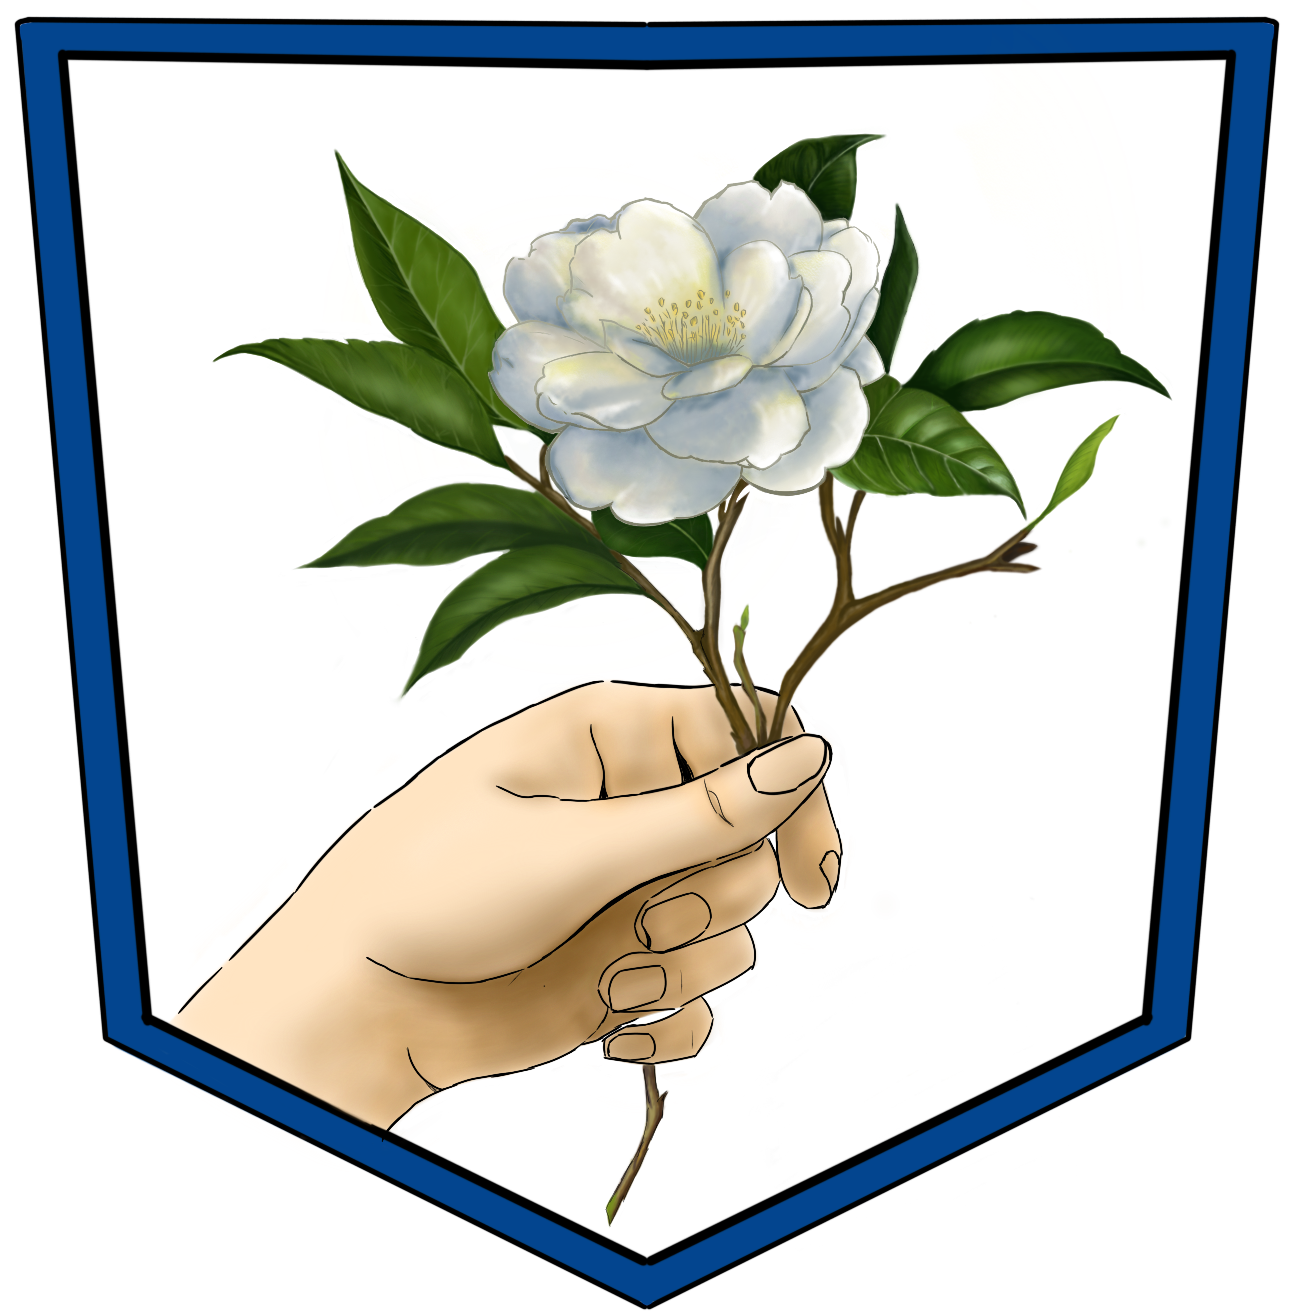
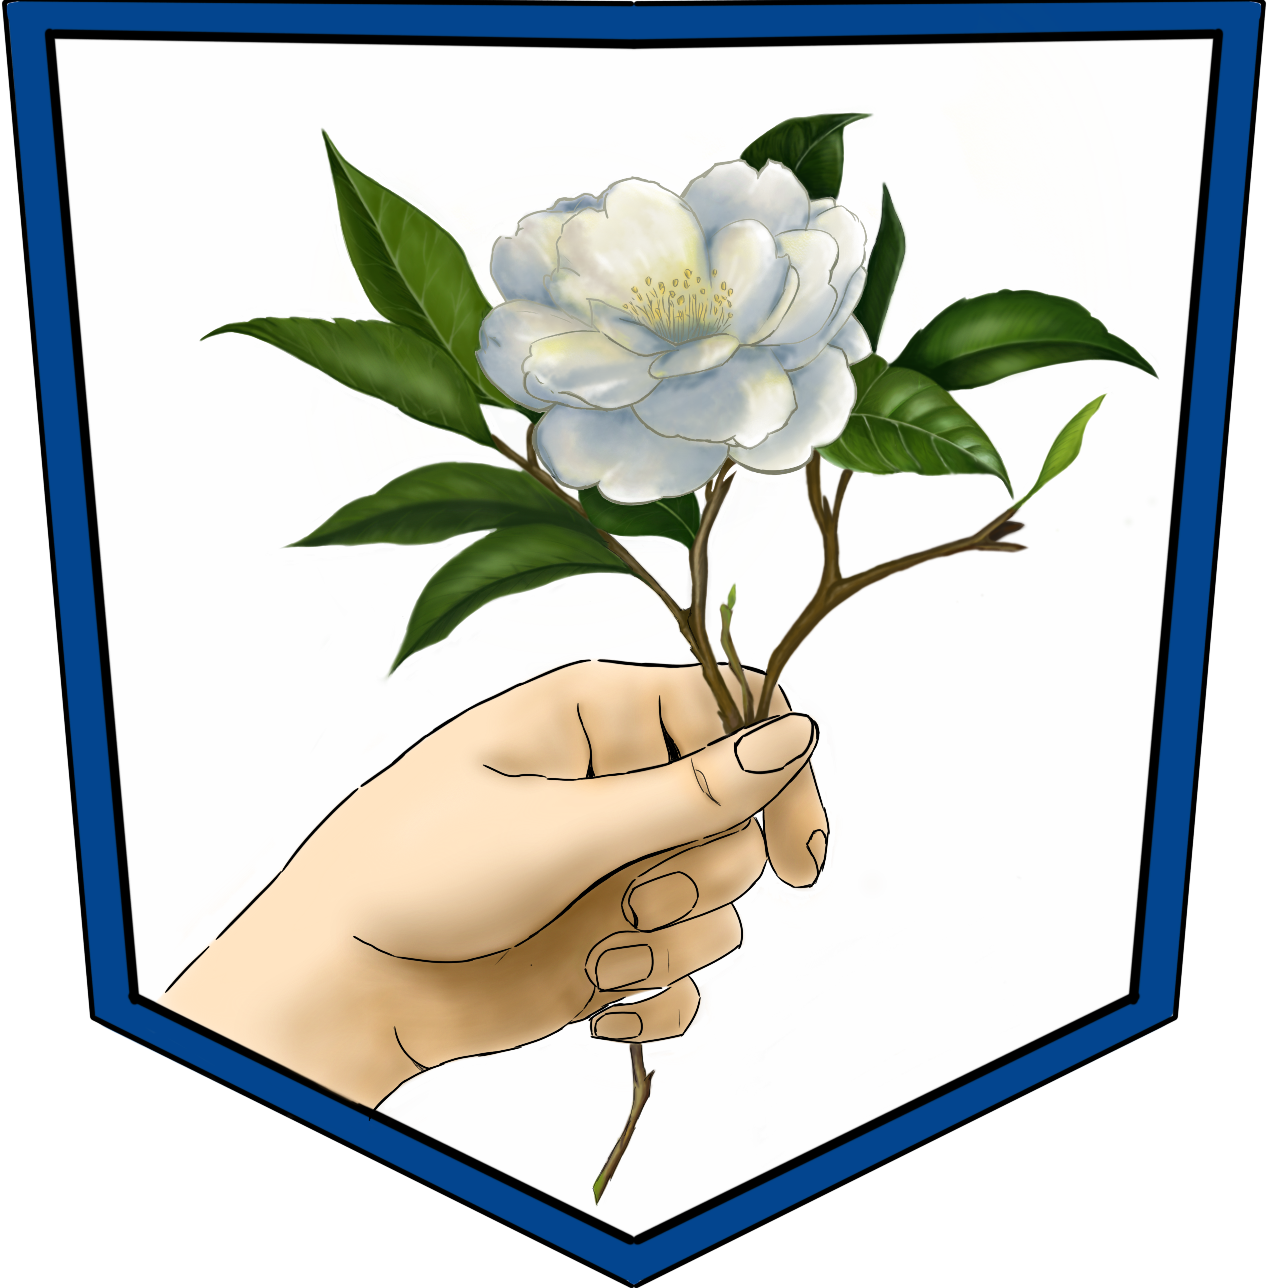
Change home page layout.

diff --git a/src/Flask/static/css/index.css b/src/Flask/static/css/index.css
@@ -17,7 +17,7 @@ html, body {
     background: #009AC9;
     justify-content: center;
     align-items: center;
-    font-size: 0.8rem;
+    font-size: 1rem;
     color: white;
     display: flex;
 }
@@ -51,7 +51,7 @@ html, body {
     justify-content: center;
     justify-items: center;
     display: flex;
-    margin-left: 20%;
+    margin-left: 10%;
 }
 
 .info-panels {
@@ -67,11 +67,11 @@ html, body {
     position: relative;
 }
 .search-input {
-    width: 60%;
+    width: 50%;
     border: 1.5px solid #00467F;
     border-radius: 30px;
     background: white;
-    margin-left: 20%;
+    margin-left: 25%;
     font-size: 1rem;
     transition: var(--all-transition);
     height: 30px;
@@ -185,7 +185,7 @@ html, body {
     align-items: center;
     text-align: center;
     position: relative;
-    right: 5%;
+    right: 13%;
 }
 .sign-icon {
     margin-top: 10px;
@@ -322,17 +322,26 @@ html, body {
 
 .logo {
     position: absolute;
-    width: 100px;
-    height: 100px;
+    width: 110px;
+    height: 110px;
     background-color: #00467F;
-    bottom: 15.5px;
-    left: 5%;
-    clip-path: polygon(25% 0%, 100% 0, 100% 75%, 75% 100%, 0 100%, 0 25%);
+    bottom: 10px;
+    left: 10%;
+    clip-path: polygon(0% 0%, 75% 0, 100% 25%, 100% 100%, 25% 100%, 0 75%);
     z-index: 3;
+    align-items: center;
+    justify-content: center;
+    display: flex;
+}
+.logo img {
+    display: block;
+    max-width: 100%;
+    max-height: 100%;
+    margin: auto;
 }
 .language-change {
     position: relative;
-    right: 3%;
+    right: 10%;
     cursor: pointer;
     padding: 0 10px;
     display: inline-flex;
@@ -384,19 +393,21 @@ html, body {
 }
 
 .navigation-bar-bottom{
-    width: 100%;
+    right: -15%;
+    width: 70%;
     height: 65px;
-    display: flex;
     text-align:center;
     position: relative;
+    align-items: center;
+    display: flex;
 }
 #mcmenu
 {
-    width:70%;
+    width:100%;
     display: inline-block;
     text-align:center;
     z-index: 2;
-    margin-left: 15%;
+    margin-left: 10%;
     height: 100%;
     position: static;
 }

diff --git a/src/Flask/templates/html/index.html b/src/Flask/templates/html/index.html
@@ -115,7 +115,7 @@
                 </ul>
             </div>
         </div>
-        <div class="logo"></div>
+        <div class="logo"><img src="{{ url_for('static', filename='images/CredibilitySiginal.png') }}" alt="Trust Indicator Logo"/></div>
     </div>
 
     <div class="main-content-container">
@@ -559,7 +559,7 @@
                 </div>
             </div>
         </div>
-    </div>
+    </div>>
 
     <div class="bottom-navigation-bar">
         <div class="connect-container">
